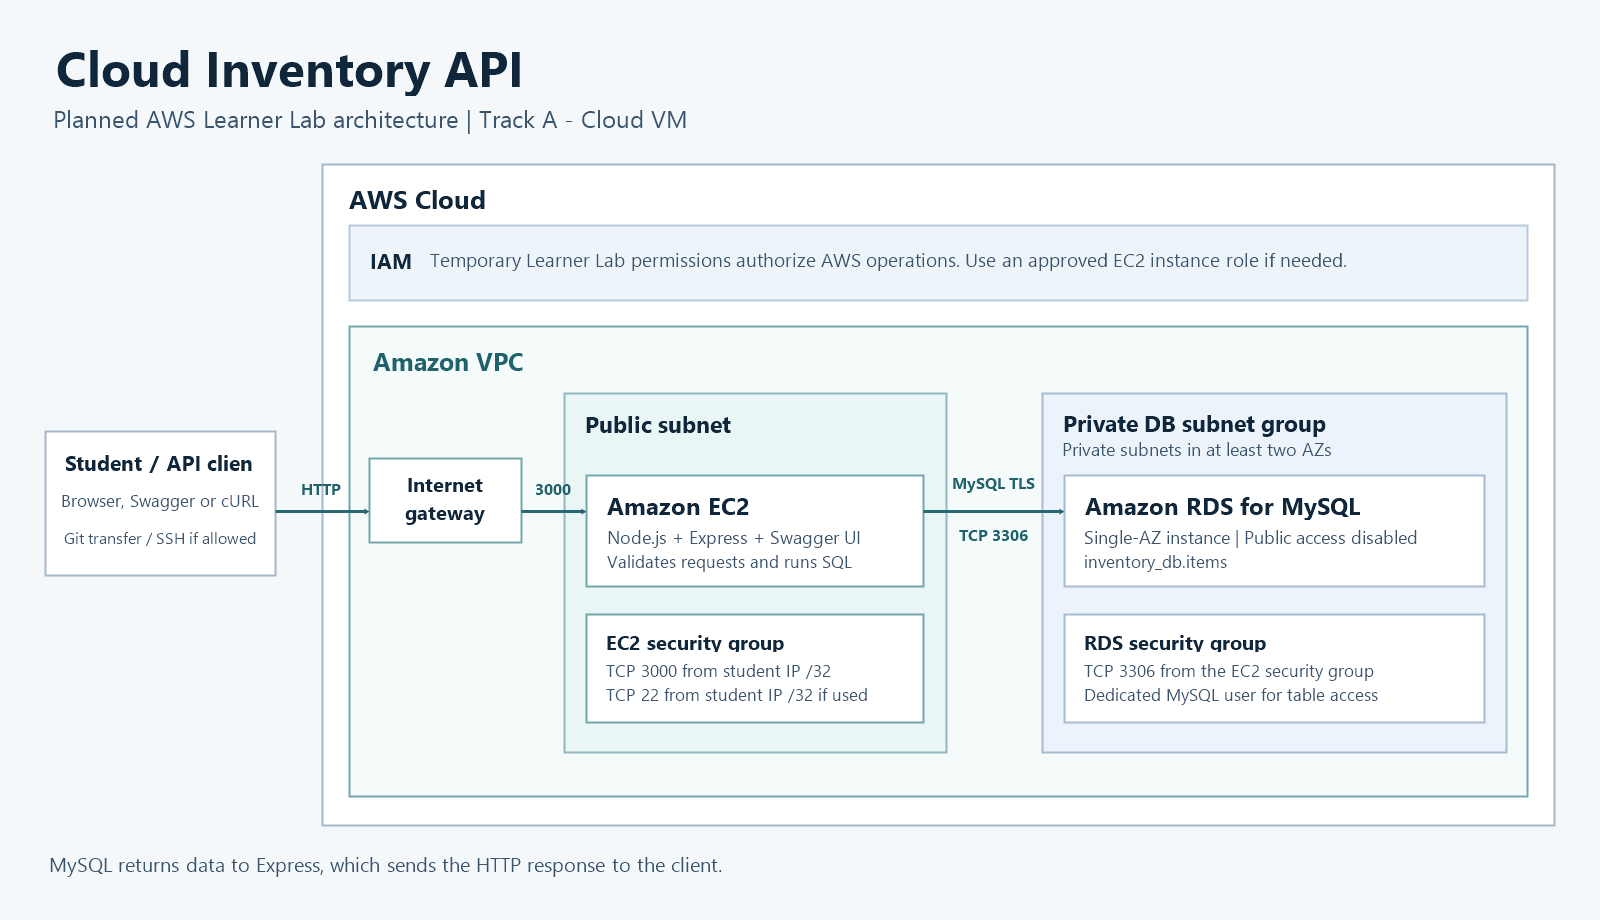
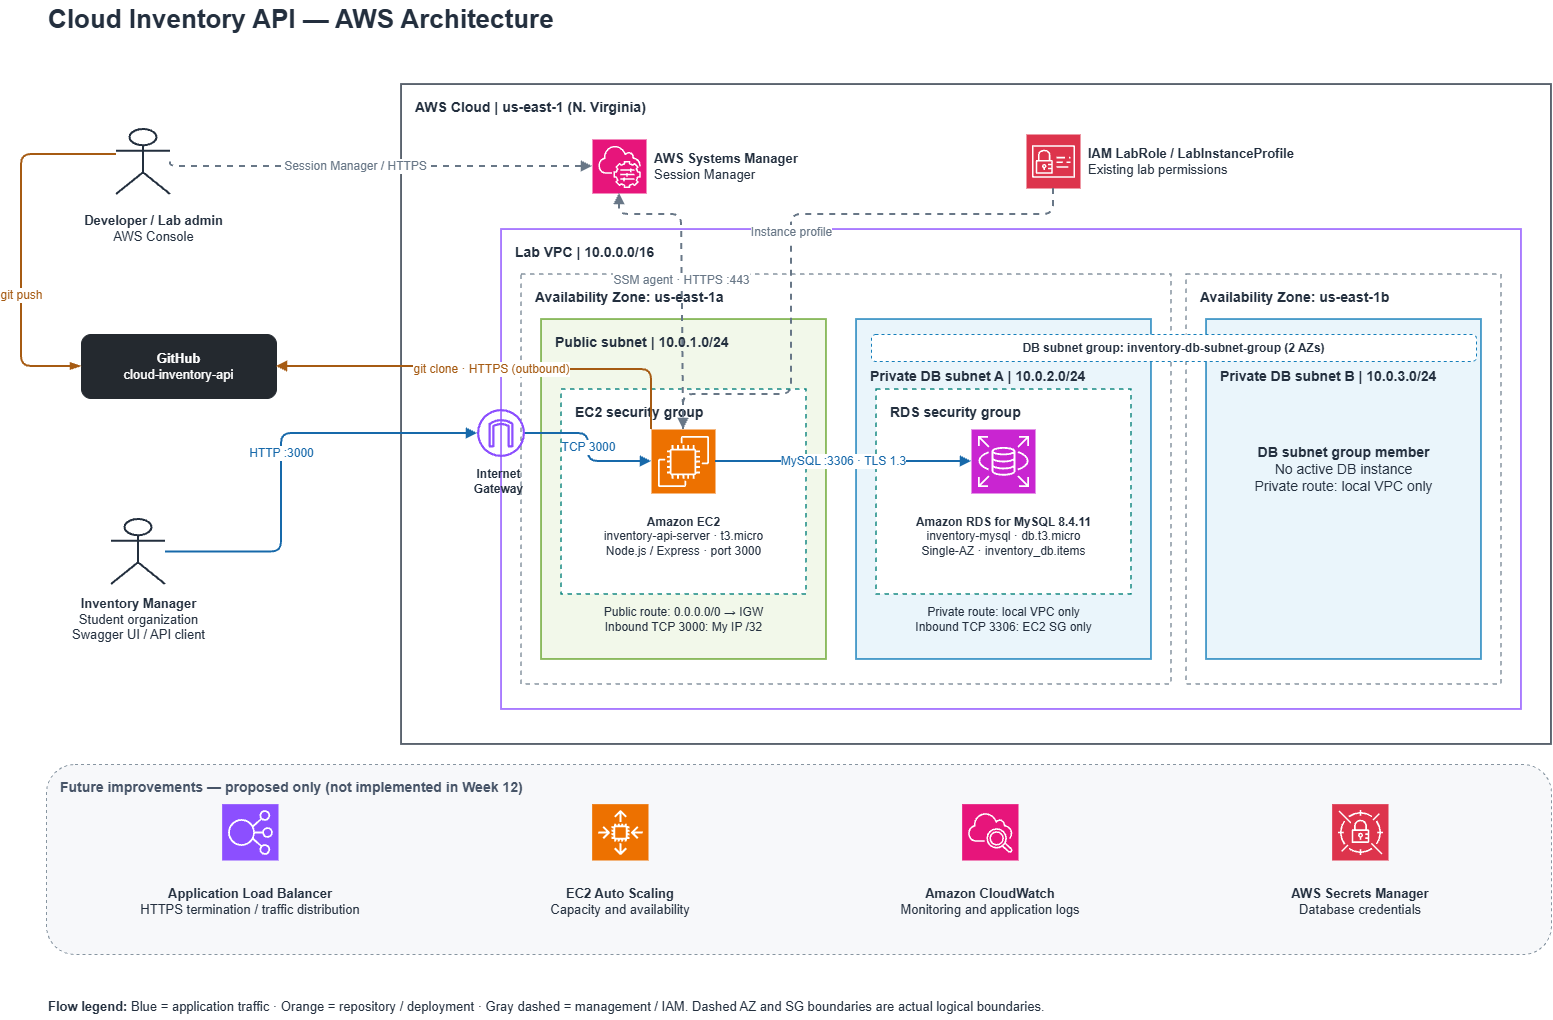
Document verified AWS deployment and final architecture

diff --git a/docs/deployment-plan.md b/docs/deployment-plan.md
@@ -1,45 +1,137 @@
-# AWS Learner Lab deployment plan
+# AWS Learner Lab deployment guide
 
-The planned Track A deployment runs the Express API on EC2 and uses a Single-AZ RDS for MySQL instance. Use the [planned architecture diagram](architecture.png) during the lab review.
+The Cloud Inventory API was deployed and tested on 26 November 2026 in the AWS Academy Cloud Foundations Sandbox. The deployment followed Track A and used an Express API on EC2 with a private, Single-AZ RDS for MySQL instance. The lab session has ended.
 
-## Review the lab before provisioning
+[Final architecture diagram](architecture.png) · [Editable Draw.io source](architecture.drawio)
 
-Confirm the remaining lab credits, permitted region and resource types, available IAM roles, access method, VPC and subnets, and estimated cost. Choose the EC2 OS and a supported Node.js 22 patch release together. Choose a supported MySQL version that enforces the schema's check constraints. Review backup, storage, and cleanup requirements with the student.
+## Week 12 deployment configuration
 
-## Configure the network and instances
+The deployment used `us-east-1` (N. Virginia). The Lab VPC used `10.0.0.0/16` with DNS resolution and DNS hostnames enabled.
 
-1. Use one permitted VPC. If direct access is allowed, put EC2 in a public subnet with a public IPv4 address and a route through an internet gateway. Allow TCP 3000 from the student's current public IP as a `/32`. Allow TCP 22 from the same source only if SSH is the chosen access method.
-2. Use a DB subnet group covering suitable private subnets in at least two Availability Zones. Create the RDS instance as Single-AZ with public access disabled. Set its security group to allow TCP 3306 from the EC2 security group.
-3. Use the existing approved Learner Lab permissions for AWS operations and any permitted instance role. MySQL authentication uses a separate database account.
+| Subnet | CIDR | Availability Zone | Workload and routing |
+| --- | --- | --- | --- |
+| Public | `10.0.1.0/24` | `us-east-1a` | EC2 with a public IPv4 address. The public route table sent `0.0.0.0/0` to the lab internet gateway. |
+| Private DB A | `10.0.2.0/24` | `us-east-1a` | Active Single-AZ RDS instance. The main route table provided local VPC routing only. |
+| Private DB B | `10.0.3.0/24` | `us-east-1b` | Second member of the DB subnet group. Local VPC routing only. |
 
-See the AWS documentation for [VPC and DB subnet groups](https://docs.aws.amazon.com/AmazonRDS/latest/UserGuide/USER_VPC.WorkingWithRDSInstanceinaVPC.html) and [EC2-to-RDS VPC scenarios](https://docs.aws.amazon.com/AmazonRDS/latest/UserGuide/USER_VPC.Scenarios.html).
+Both private subnets belonged to `inventory-db-subnet-group`. The RDS instance ran in `us-east-1a`. The deployment used no NAT gateway. The lab VPC's existing S3 gateway endpoint was unused by the application.
 
-## Set up the database and API on EC2
+| Component | Configuration used in the lab |
+| --- | --- |
+| EC2 | `inventory-api-server`, `t3.micro`, Amazon Linux 2023 x86_64, 8 GiB gp2, IMDSv2 required |
+| EC2 security group | `inventory-ec2-sg`, inbound TCP 3000 from the student's public IPv4 `/32` only, default outbound, no inbound SSH |
+| EC2 management | Browser-based Systems Manager Session Manager as `ssm-user`, using the existing `LabRole` through `LabInstanceProfile` and temporary Learner Lab permissions |
+| RDS | `inventory-mysql`, MySQL Community 8.4.11, `db.t3.micro`, Single-AZ, public access disabled |
+| RDS storage | 20 GiB gp2, as reported by the student |
+| RDS security group | `inventory-rds-sg`, inbound TCP 3306 from `inventory-ec2-sg` only |
+| Runtime on EC2 | Node.js 22.23.5, npm 10.9.9, Git 2.50.1, MariaDB client 10.5.29 |
 
-1. Use the approved access method to connect to EC2. Transfer the tracked project files using an approved method. Use GitHub only after repository publication is authorized.
-2. Install Node.js 22, npm, Bash, cURL, and a compatible MySQL command-line client using the instructions for the selected EC2 OS. Verify `node --version` and `npm --version`, then run `npm ci` in the project directory.
-3. Obtain the trusted CA bundle for the selected RDS region and certificate. From EC2, verify DNS, TLS hostname validation, and MySQL login using the RDS endpoint. Open the MySQL client as the database administrator from the project root. The client prompts for the password.
+The API accepted HTTP on port 3000 from the student's authorized address for the lab demo. EC2 connected to the RDS DNS endpoint on port 3306 over TLS. The instance profile supported Systems Manager access. MySQL authentication used a dedicated database user.
 
-   ```bash
-   mysql --host RDS_ENDPOINT --port 3306 --user DB_ADMIN --password \
-     --ssl-mode=VERIFY_IDENTITY --ssl-ca=/path/to/rds-ca-bundle.pem
-   ```
+## Reproduce the deployment in an authorized lab
 
-   In the MySQL client, check the connection and initialize the schema.
+Confirm the lab's allowed region, instance types, IAM profile, spending limits, and cleanup rules before creating resources. Use one VPC with the public and private routing shown above. Configure the EC2 and RDS security groups before testing. Keep the RDS subnet group across two Availability Zones and the database instance Single-AZ with public access disabled.
 
-   ```sql
-   SELECT 1;
-   SOURCE db/schema.sql
-   ```
+### 1. Install the runtime on EC2
 
-   [AWS MySQL TLS client instructions](https://docs.aws.amazon.com/AmazonRDS/latest/UserGuide/USER_ConnectToInstanceSSL.CLI.html) and [RDS CA bundles](https://docs.aws.amazon.com/AmazonRDS/latest/UserGuide/UsingWithRDS.SSL.html) cover certificate configuration.
+Open a browser-based Session Manager terminal. The following commands were used on Amazon Linux 2023.
 
-4. Create a dedicated MySQL app user with only `SELECT`, `INSERT`, `UPDATE`, and `DELETE` on `inventory_db.items`. Use a private MySQL session without persistent command history when entering account secrets.
-5. Create `.env` on EC2 with restricted permissions. Set `HOST=0.0.0.0` for authorized direct access, or keep the loopback default when using an approved tunnel. Set `PORT=3000`, `DB_HOST` to the RDS DNS endpoint, `DB_PORT=3306`, `DB_NAME=inventory_db`, the dedicated `DB_USER` and `DB_PASSWORD`, and `DB_SSL_CA` to the CA bundle path. Start the API with `npm start`.
+```bash
+sudo dnf install -y nodejs22 nodejs22-npm git mariadb105
+cd "$HOME"
+git clone https://github.com/ggalangswt/cloud-inventory-api.git
+cd cloud-inventory-api
+npm ci
+npm test
+```
 
-## Verify and collect evidence
+### 2. Verify TLS and initialize MySQL
 
-- Run `curl -i http://127.0.0.1:3000/health` and `curl -i http://127.0.0.1:3000/health/db` from EC2. Both should return 200. If database health returns 503, check the RDS instance state, endpoint, security group source, MySQL credentials, and TLS configuration.
-- Run `bash scripts/smoke-test.sh http://127.0.0.1:3000` on EC2. Expect the two health checks to return 200 and the CRUD operations to return 201, 200, 200, and 204.
-- Open Swagger at `/docs` from an authorized client. Capture the actual EC2 and RDS settings, VPC and subnet setup, security groups, EC2 access, MySQL connectivity, and API test output with secrets excluded.
-- Record the deployed settings and revise the diagram for the final report. Review lab resource state, ongoing charges, and cleanup with the student after collecting evidence.
+Download the RDS CA bundle for the deployment region. From the repository root, open the MariaDB client with the RDS DNS endpoint substituted for `RDS_ENDPOINT`. The client prompts for the admin password.
+
+```bash
+mkdir -p "$HOME/certs"
+curl -fL https://truststore.pki.rds.amazonaws.com/us-east-1/us-east-1-bundle.pem \
+  -o "$HOME/certs/rds-ca-bundle.pem"
+
+MYSQL_HISTFILE=/dev/null mysql -h RDS_ENDPOINT -P 3306 -u admin -p \
+  --ssl-ca="$HOME/certs/rds-ca-bundle.pem" --ssl-verify-server-cert --connect-timeout=10
+```
+
+In the SQL client, check the connection and initialize the schema.
+
+```sql
+SELECT VERSION();
+SELECT 1 AS connection_test;
+SHOW SESSION STATUS LIKE 'Ssl_version';
+SHOW SESSION STATUS LIKE 'Ssl_cipher';
+SOURCE db/schema.sql
+SHOW TABLES;
+DESCRIBE items;
+SELECT * FROM items;
+```
+
+Create the dedicated application user once. Save the generated password privately and grant the user access to the inventory table.
+
+```sql
+CREATE USER 'inventory_app'@'%' IDENTIFIED BY RANDOM PASSWORD REQUIRE SSL;
+GRANT SELECT, INSERT, UPDATE, DELETE ON inventory_db.items TO 'inventory_app'@'%';
+```
+
+Reconnect over TLS as `inventory_app` using the same connection flags. Use `SELECT CURRENT_USER()`, `SHOW GRANTS`, and a `SELECT` on `inventory_db.items` to verify the account and access.
+
+### 3. Configure and start the API
+
+In a fresh checkout, create `.env` from `.env.example` and set its permissions to `600`. Fill in the values privately using the deployed RDS DNS endpoint, the generated application password, and the local CA path.
+
+```dotenv
+HOST=0.0.0.0
+PORT=3000
+DB_HOST=RDS_ENDPOINT
+DB_PORT=3306
+DB_NAME=inventory_db
+DB_USER=inventory_app
+DB_PASSWORD=YOUR_APPLICATION_PASSWORD
+DB_SSL_CA=/home/ssm-user/certs/rds-ca-bundle.pem
+```
+
+Run `npm start` in the foreground in Session Manager. Open a second session for the checks below.
+
+### 4. Verify the API and collect evidence
+
+```bash
+curl -i http://127.0.0.1:3000/health
+curl -i http://127.0.0.1:3000/health/db
+bash scripts/smoke-test.sh http://127.0.0.1:3000
+```
+
+Check Swagger UI at `http://EC2_PUBLIC_IPV4:3000/docs` from the address allowed by the EC2 security group. If database health returns `503`, check the RDS DNS endpoint, application login, TLS settings, and the security group source. Capture networking, access, schema, and test evidence privately.
+
+## Week 12 verification results
+
+These results were recorded during the original lab session.
+
+- On EC2, `npm ci` installed 100 packages and reported 0 vulnerabilities at the time. All 18 automated tests passed with a database mock.
+- The MySQL client returned version `8.4.11` and `1` for `SELECT 1 AS connection_test`. Certificate verification succeeded and the session negotiated TLS 1.3 with `TLS_AES_256_GCM_SHA384`.
+- The schema created the seven-column `items` table in the existing database. The table was initially empty. The client emitted one warning whose text was not captured. The application user's login, grants, and read access were verified.
+- After the RDS hostname and application password in `.env` were corrected, both browser health endpoints returned `{"status":"ok"}`. Swagger displayed all six endpoints. The API ran as a foreground Session Manager process.
+- The smoke test ran from EC2 against the API connected to RDS and returned the following output.
+
+```text
+$ bash scripts/smoke-test.sh http://127.0.0.1:3000
+GET /health -> 200
+GET /health/db -> 200
+POST /items -> 201
+GET /items -> 200
+PUT /items/1 -> 200
+DELETE /items/1 -> 204
+Smoke test passed.
+```
+
+## Lab shutdown
+
+After evidence collection, the student chose **End Lab** and the console reported resources terminating. Final deletion was not independently verified. For future runs, verify resource state and any ongoing charges according to the lab's cleanup rules.
+
+## Proposed improvements
+
+The final diagram labels four future improvements as proposed. An Application Load Balancer could terminate HTTPS and distribute traffic, EC2 Auto Scaling could adjust capacity, CloudWatch could collect application logs and monitoring data, and Secrets Manager could store database credentials.

diff --git a/README.md b/README.md
@@ -1,6 +1,6 @@
 # Cloud Inventory API
 
-A small REST API for tracking equipment in a student organization. This Cloud Computing Week 12 project follows Track A (Cloud VM). The planned deployment runs Express on Amazon EC2 and stores one `items` entity in Amazon RDS for MySQL.
+A small REST API for tracking equipment in a student organization. This Cloud Computing Week 12 project follows Track A (Cloud VM). During the Week 12 AWS Learner Lab, the Express API ran on Amazon EC2 and stored its `items` entity in Amazon RDS for MySQL.
 
 ## Run locally
 
@@ -54,7 +54,10 @@ With a running API and initialized MySQL database, run the cURL smoke test in Ba
 bash scripts/smoke-test.sh http://127.0.0.1:3000
 ```
 
-## Deployment
+## AWS deployment
 
-- [Planned AWS architecture](docs/architecture.png)
-- [EC2 and RDS deployment plan](docs/deployment-plan.md)
+The API was deployed and verified in the Week 12 sandbox. On EC2, all 18 automated tests passed with an injected database substitute. The cloud smoke test used the real RDS database and passed both health checks and all four CRUD operations. The lab session has ended, so use the local setup above to run the API.
+
+- [Final AWS architecture](docs/architecture.png) and [editable Draw.io source](docs/architecture.drawio)
+- [EC2 and RDS deployment guide](docs/deployment-plan.md)
+- [Week 12 verification results](docs/deployment-plan.md#week-12-verification-results)
